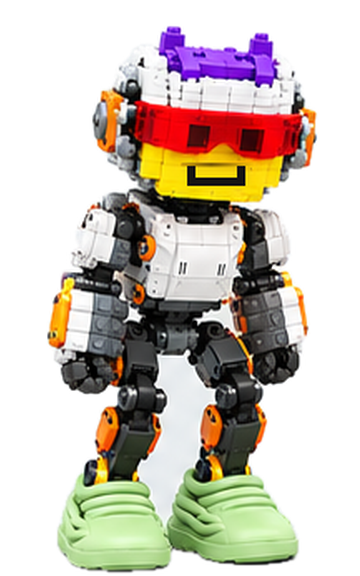
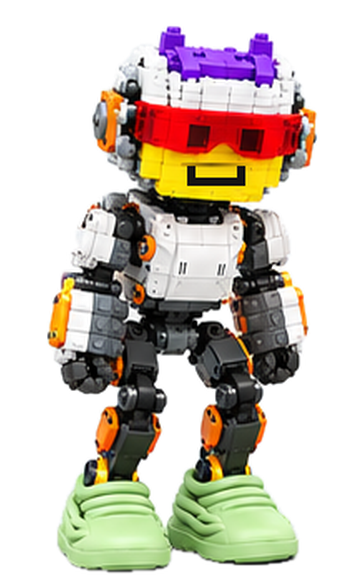
Зеркало: мост 2.7.3 — Плюс на 8 % шире, чистая вырезка приседа
Claude-Session: https://claude.ai/code/session_01FAzfVjY4X3C1HBiDn6VvrF

Changed region(s): [[0.3667, 0.5938, 0.6111, 0.9062], [0.55, 0.5312, 0.6417, 0.5625]]

diff --git a/quest-bridge/app/src/main/kotlin/com/questclaude/bridge/Nalozhenie.kt b/quest-bridge/app/src/main/kotlin/com/questclaude/bridge/Nalozhenie.kt
@@ -636,7 +636,7 @@ class Nalozhenie(
 
     /**
      * Плюс во весь рост (2.7.2, лист тела Александра 24.10; стиль «Визор»): фигура plus-telo.png 360×576 — голова
-     * в точках картинки лица 256 (с x = 52), ниже тело в тапочках; на 5 % шире (Александр: «растяни в стороны»).
+     * в точках картинки лица 256 (с x = 52), ниже тело в тапочках; на 8 % шире при том же росте (Александр 24.10).
      * Мимика — на голове фигуры. Приседания (каждая четвёртая анимация ожидания — 10 раз) — кадры plus-prised-1…4
      * с тем же местом тапочек; в приседе мимики нет, лицо улыбается само. [l], [t] — левый верх фигуры, [kt] — масштаб.
      */
@@ -646,7 +646,7 @@ class Nalozhenie(
         val cx = l + w / 2f
         val sloy = c.saveLayer(0f, 0f, pravo, niz, null)
         c.translate(sin(now / 2600.0).toFloat() * 3f, if (prisedKadr(now) >= 0) 0f else sin(now / 1400.0).toFloat() * 2f)
-        c.scale(Vizor.TELO_SHIRE, 1f, cx, t)                           // на 5 % шире
+        c.scale(Vizor.TELO_SHIRE, 1f, cx, t)                           // на 8 % шире, рост тот же
         val dst = RectF(l, t, l + w, t + Vizor.TELO_H * kt)
         kist.alpha = if (sost == "spit") 110 else 255
         val pk = prisedKadr(now)

diff --git a/quest-bridge/app/src/main/kotlin/com/questclaude/bridge/Vizor.kt b/quest-bridge/app/src/main/kotlin/com/questclaude/bridge/Vizor.kt
@@ -143,15 +143,15 @@ object Vizor {
     val LICO_X = PRAVO - 4f - (319f - PLECHI_VBOK) * K
     val LICO_Y = PV.t
     /**
-     * Плюс во весь рост (plus-telo.png 360×576: голова — картинка лица 256 с x = 52, ниже тело в тапочках): на 5 %
+     * Плюс во весь рост (plus-telo.png 360×576: голова — картинка лица 256 с x = 52, ниже тело в тапочках): на 8 %
      * шире картинки (TELO_SHIRE, Александр 24.10), почти во всю ширину правого столбца; стоит справа вверху над чатом.
      */
     const val TELO_W = 360f
     const val TELO_H = 576f
     const val TELO_GOLOVA_X = 52f
-    const val TELO_SHIRE = 1.05f
-    /** Масштаб фигуры: 93 % ширины столбца — с айфоном стоя под ней остаётся место на сообщение чата. */
-    const val KT = 0.93f * (PRAVO - STOLB_X) / (TELO_W * TELO_SHIRE)
+    const val TELO_SHIRE = 1.08f
+    /** Масштаб фигуры (рост — как в 2.7.2, Александру хватает): с айфоном стоя под ней место на сообщение чата. */
+    const val KT = 0.93f * (PRAVO - STOLB_X) / (TELO_W * 1.05f)
     val TELO_X = PRAVO - (PRAVO - STOLB_X) / 2f - TELO_W * KT / 2f
     val TELO_Y = PV.t
     /** Плюс (во весь рост; бюст зверя — внутри) с запасом на покачивание. */
